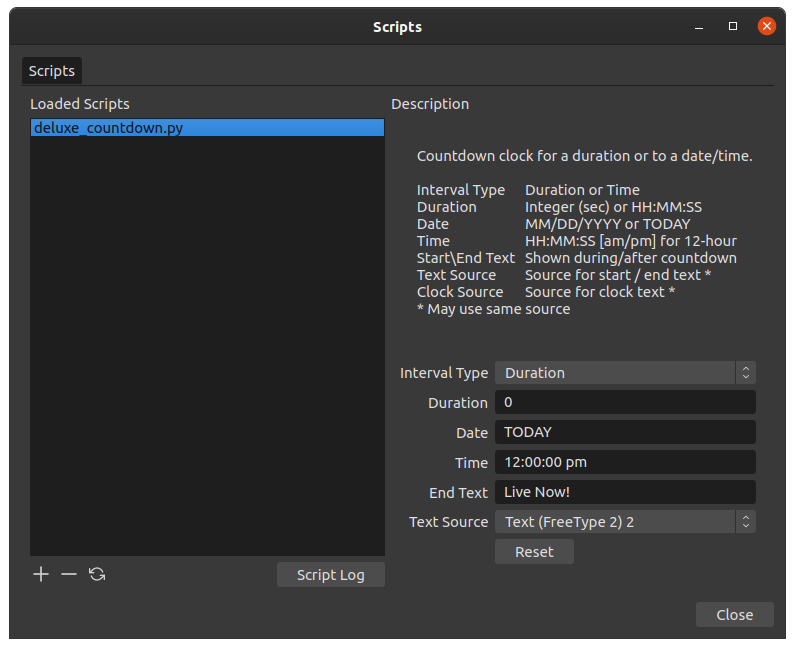
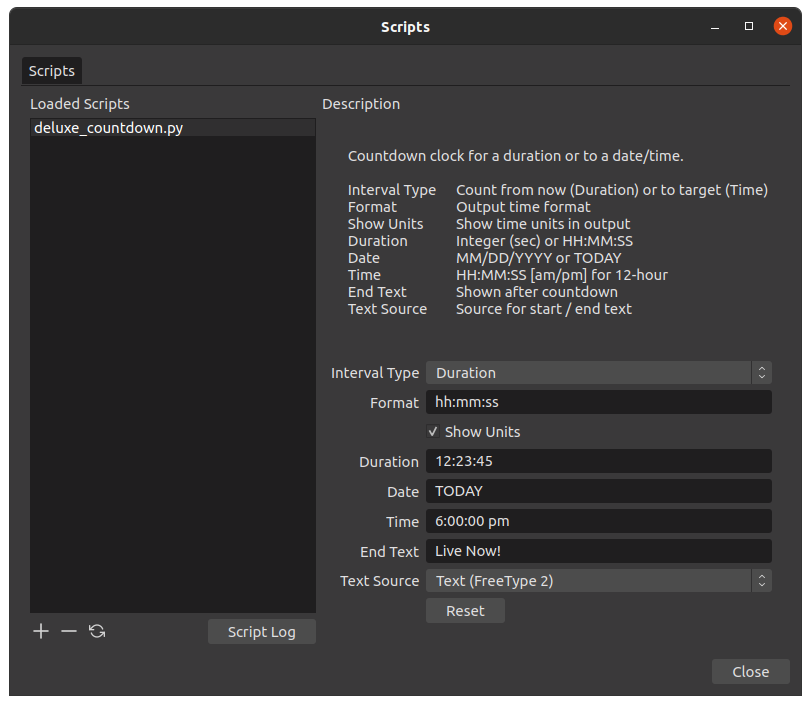
added time formatting and unit names

diff --git a/deluxe_countdown.py b/deluxe_countdown.py
@@ -48,7 +48,7 @@ class Clock():
 
         self.reference_time = datetime.datetime.now()
 
-    def get_time(self):
+    def get_time(self, show_units):
         """
         Get the countdown time as a string
         """
@@ -64,14 +64,12 @@ class Clock():
             if _delta > _duration:
                 return None
 
+            #build a list of hours, minuts, seconds
             _result = str(_duration - _delta).split(':')
 
         #calculate string of the time remaining until the target time is reached
-        elif self.target_time is None:
-            return "00:00:00"
-
-        elif self.target_time < _current_time:
-            return "00:00:00"
+        elif self.target_time is None or self.target_time < _current_time:
+            _result = ['00', '00', '00']
 
         else:
             _result = str(self.target_time - _current_time).split(':')
@@ -79,18 +77,59 @@ class Clock():
         #formatting to pad missing zeros
         _days_hours = _result[0].split(',')
 
+        #if days were present, strip from the result
         if len(_days_hours) > 1:
             _result = _days_hours[1:] + _result[1:]
 
+
+        #round the seconds to the nearest integer
         _result[-1] = str(int(round(float(_result[-1]), 0)))
-        _result = ['{:02d}'.format(int(_v)) for _v in _result]
-        _result = ':'.join(_result)
+
+        #format according to the format string
+        _format = script_state.properties['format'].cur_value.split(':')
+
+        _fill = []
+
+        for _v in ['h', 'm', 's']:
+
+            _truth = [_v in _w.lower() for _w in _format]
+
+            if not any(_truth):
+                _fill.append('')
+            else:
+                _fill.append(_format[_truth.index(True)])
+
+        _fn = lambda p: '{:0' + str(p) + 'd}' if p < 3 else '{:02d}'
+
+        _fill = [_fn(len(_v)) if _v else None for _v in _fill]
+
+        _result = [_result[_i] if _v else None for _i, _v in enumerate(_fill)]
+
+        _result = [
+            _fill[_i].format(int(_v)) for _i, _v in enumerate(_result) if _v]
+
+        _literal = ':'.join(_result)
+
+        print('LITERAL = ', _literal, show_units, _result)
+
+        if show_units:
+
+            _units = [' hours', ' minutes', ' seconds']
+
+            for _i, _v in enumerate(_result):
+
+                if not _v:
+                    continue
+
+                _result[_i] += _units[_i]
+
+            _literal = ', '.join(_result)
 
         if len(_days_hours) > 1:
             if _days_hours[0][0:2] != '-1':
-                _result = _days_hours[0] + ', ' + _result
+                _literal = _days_hours[0] + ', ' + _literal
 
-        return _result
+        return _literal
 
     def set_duration(self, interval):
         """
@@ -207,12 +246,14 @@ class State():
         self.OBS_COMBO = obs.OBS_COMBO_TYPE_LIST
         self.OBS_TEXT = obs.OBS_TEXT_DEFAULT
         self.OBS_BUTTON = 'OBS_BUTTON'
+        self.OBS_BOOLEAN = 'OBS_BOOLEAN'
 
         #other global vars for OBS callbacks
         self.clock = Clock()
         self.hotkey_id = 0
         self.activated = False
         self.properties = self.build_properties()
+        self.obs_properties = None
 
     def build_properties(self):
         """
@@ -223,15 +264,16 @@ class State():
         _fn = lambda p_name, p_default, p_type, p_items=None:\
             SimpleNamespace(
                 name=p_name, default=p_default, type=p_type, items= p_items,
-                cur_value=p_default)
+                cur_value=p_default, ref=None)
 
         _p = {}
 
-        _p['interval_type'] = _fn(
-            'Interval Type', 'Duration', self.OBS_COMBO,
+        _p['clock_type'] = _fn(
+            'Clock Type', 'Duration', self.OBS_COMBO,
             ['Duration', 'Date/Time']
         )
-
+        _p['format'] = _fn('Format', 'HH:MM:SS', self.OBS_TEXT)
+        _p['show_units'] = _fn('Show Units', False, self.OBS_BOOLEAN)
         _p['duration'] = _fn('Duration', '0', self.OBS_TEXT)
         _p['date'] = _fn('Date', 'TODAY', self.OBS_TEXT)
         _p['time'] = _fn('Time', '12:00:00 pm', self.OBS_TEXT)
@@ -241,6 +283,14 @@ class State():
             _fn('Text Source', '', self.OBS_COMBO, self.get_source_list())
 
         return _p
+
+    def refresh_properties(self, settings):
+        """
+        Refresh the state properites
+        """
+
+        for _k, _v in self.properties.items():
+            _v.cur_value = self.get_value(_k, settings)
 
     def get_source_list(self):
         """
@@ -270,10 +320,16 @@ class State():
         """
 
         if settings:
-            _value = obs.obs_data_get_string(settings, source_name)
+
+            _fn = obs.obs_data_get_string
+
+            if self.properties[source_name].type == self.OBS_BOOLEAN:
+                _fn = obs.obs_data_get_bool
+
+            _value = _fn(settings, source_name)
             self.properties[source_name].cur_value = _value
 
-            return obs.obs_data_get_string(settings, source_name)
+            return _fn(settings, source_name)
 
         return self.properties[source_name].cur_value
 
@@ -304,7 +360,8 @@ def update_text():
     Update the text with the passed time string
     """
 
-    _time = script_state.clock.get_time()
+    _units = script_state.properties['show_units'].cur_value
+    _time = script_state.clock.get_time(_units)
 
     if not _time:
         obs.remove_current_callback()
@@ -405,20 +462,21 @@ def script_update(settings):
 
     activate(False)
 
-    _type = obs.obs_data_get_string(settings, 'interval_type')
+    script_state.refresh_properties(settings)
 
-    if _type == 'Duration':
-        _interval = obs.obs_data_get_string(settings, 'duration')
+    _type = script_state.properties['clock_type'].cur_value
+
+    _is_duration = _type == 'Duration'
+
+    if _is_duration:
+
+        _interval = script_state.properties['duration'].cur_value
         script_state.clock.set_duration(_interval)
 
     else:
-        _date = obs.obs_data_get_string(settings, 'date')
-        _time = obs.obs_data_get_string(settings, 'time')
+        _date = script_state.properties['date']
+        _time = script_state.properties['time']
         script_state.clock.set_date_time(_date, _time)
-
-    #update the current value in the properties
-    for _key, _item in script_state.properties.items():
-        _item.cur_value = obs.obs_data_get_string(settings, _key)
 
     script_state.clock.reset()
     update_text()
@@ -431,11 +489,13 @@ def script_description():
     """
     return """
     Countdown clock for a duration or to a date/time.\n
-    Interval Type\tDuration or Time
+    Clock Type\tCount from now (Duration) or to target (Time)
+    Format\tOutput time format
+    Show Units\tShow time units in output
     Duration\tInteger (sec) or HH:MM:SS
     Date\t\tMM/DD/YYYY or TODAY
     Time\t\tHH:MM:SS [am/pm] for 12-hour
-    Start\End Text\tShown during/after countdown
+    End Text\tShown after countdown
     Text Source\tSource for start / end text
     """
 
@@ -446,15 +506,15 @@ def script_defaults(settings):
 
     for _k, _v in script_state.properties.items():
 
-        if _v.type != script_state.OBS_BUTTON:
+        if _v.type not in [script_state.OBS_BUTTON, script_state.OBS_BOOLEAN]:
             obs.obs_data_set_default_string(settings, _k, _v.default)
 
     for _k, _v in script_state.properties.items():
 
-        if _v.type != script_state.OBS_BUTTON:
+        if _v.type not in [script_state.OBS_BUTTON, script_state.OBS_BOOLEAN]:
             _v.cur_value = obs.obs_data_get_string(settings, _k)
 
-    if script_state.properties['interval_type'] == 'Duration':
+    if script_state.properties['clock_type'] == 'Duration':
 
         script_state.clock.set_duration(
             script_state.properties['duration'].cur_value)
@@ -483,12 +543,18 @@ def script_properties():
             for _item in _v.items:
                 obs.obs_property_list_add_string(_p, _item, _item)
 
+        elif _v.type == script_state.OBS_BOOLEAN:
+
+                obs.obs_properties_add_bool(props, _k, _v.name)
+
         else:
 
             obs.obs_properties_add_text(props, _k, _v.name, _v.type)
 
     obs.obs_properties_add_button(
         props, 'reset', 'Reset', reset_button_clicked)
+
+    script_state.obs_properties = props
 
     return props
 

diff --git a/README.md b/README.md
@@ -46,9 +46,46 @@ Once the proper location is selected, you may need to restart OBS for the change
 ![](images/obs_scripts_configure.png)
 
 
-#### Interval Type
-  Select "Duration" or "Date/Time" from the dropdown.
+#### Clock Type
+  Duration - Countdown a specific amount of time from reset / now.
+  Time - Countdown from now toward a specifc date / time.
 
+#### Format
+  Specify the time format as HH:MM:SS.  Time elements may be reduced or eliminated.
+
+  Examples:
+
+```
+ For a given time of 12:34:56 and 12:04:06:
+
+ - HH:MM:SS   12:34:56, 12:04:06
+ - HH:MM:S    12:34:56, 12:04:6
+ - HH:MM      12:34, 12:04
+```
+
+#### Show Units
+  Display time units (verbose) if checked, use HH:MM:SS format otherwise.
+
+  Examples:
+
+```
+ For a given time of 12:34:56:
+
+ - Unchecked  12:34:56
+ - Checked    12 hours, 34 minutes, 56 seconds
+```
+
+  It may be desirable to use single-digit time formats in combination with
+  showing units.
+
+  Examples:
+
+```
+  Given Time:   02:34:06 and Show Units = True / Checked
+
+  HH:MM:SS  02 hours, 34 minutes, 06 seconds
+  H:M:S     2 hours, 34 minutes 6 seconds
+```
 
 #### Duration
   Timer counts down the specified time from the moment the time is entered or the timer is reset.
